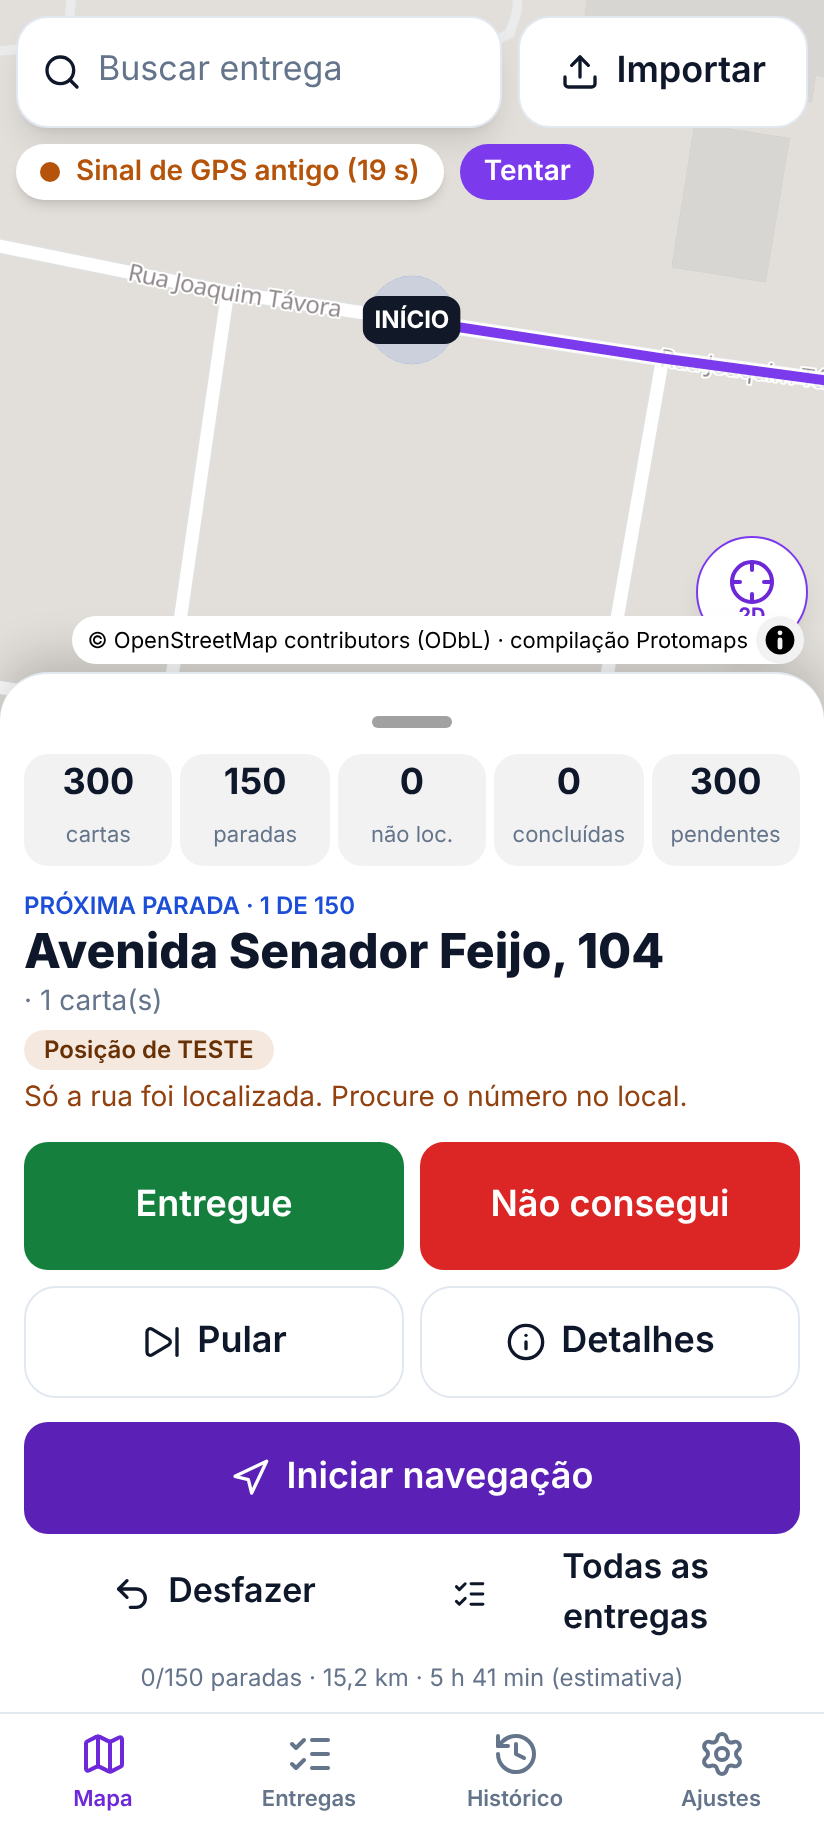
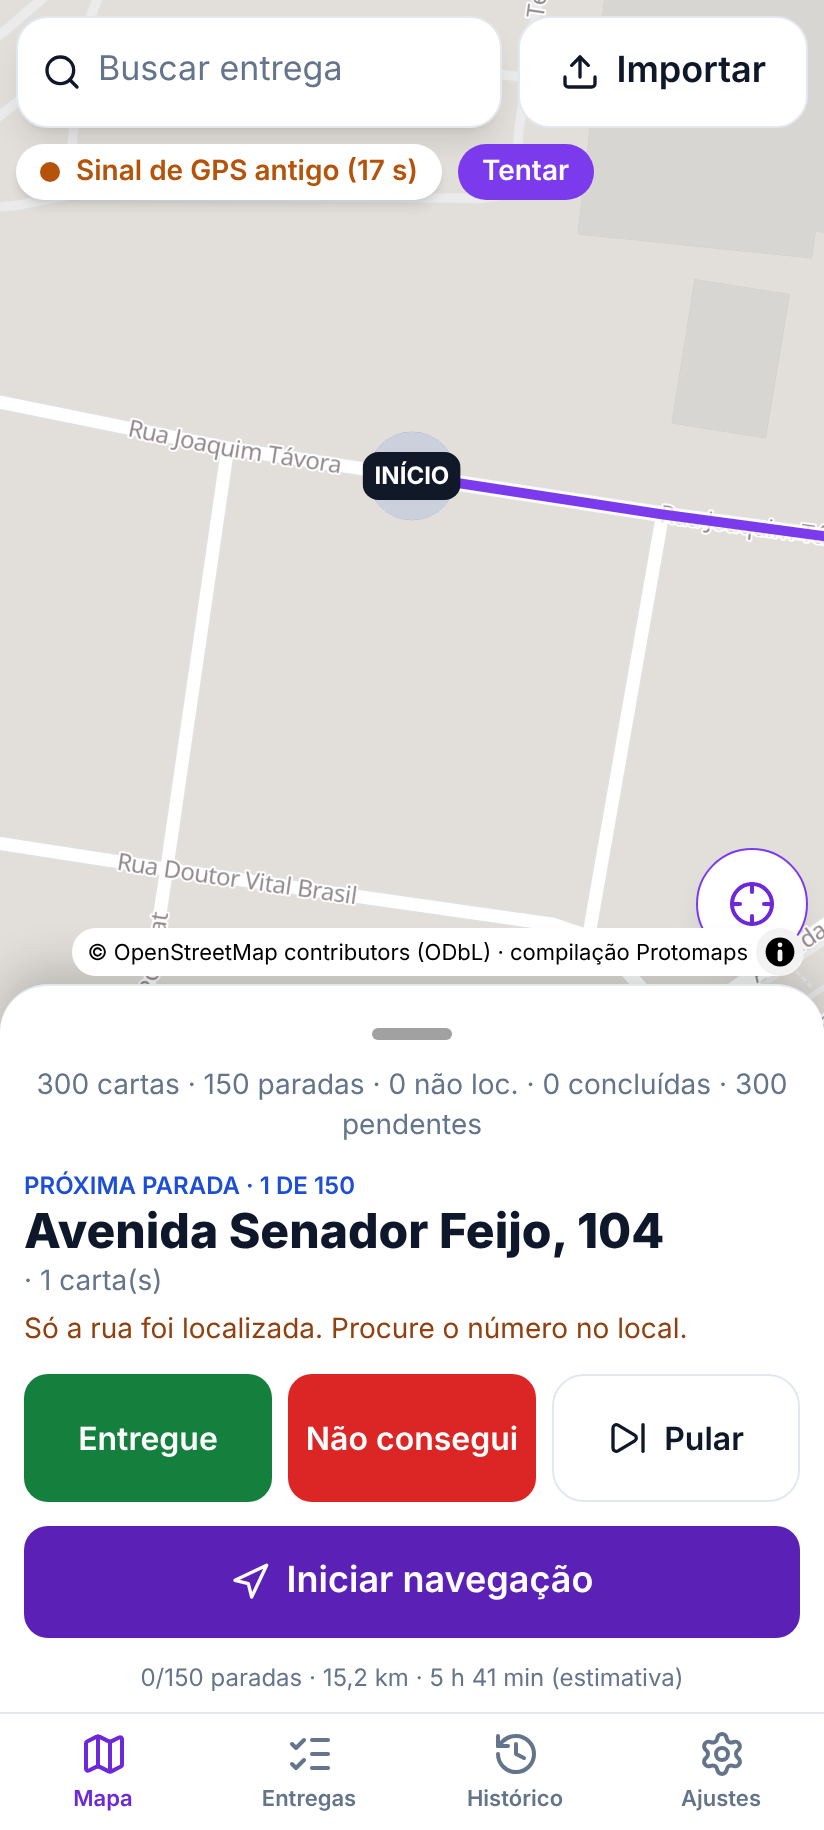
docs: auditoria 2.0.1; GPS obsoleto só no nativo

diff --git a/mobile/src/ui/useNavigation.ts b/mobile/src/ui/useNavigation.ts
@@ -189,7 +189,7 @@ export function useNavigation(onRerouted?: (r: Route) => void) {
 
   // idade do fix: marca "stale" quando para de chegar posição
   useEffect(() => {
-    const t = setInterval(() => setUi((u) => (u.fix && u.gps === "ok" && Date.now() - u.fix.time > STALE_MS ? { ...u, gps: "stale" } : u)), 2000);
+    const t = setInterval(() => setUi((u) => (nav.isNative() && u.fix && u.gps === "ok" && Date.now() - u.fix.time > STALE_MS ? { ...u, gps: "stale" } : u)), 2000);
     return () => clearInterval(t);
   }, []);
 

diff --git a/docs/AUDITORIA_ROTA_SANTOS_2_0_1.md b/docs/AUDITORIA_ROTA_SANTOS_2_0_1.md
@@ -1,0 +1,21 @@
+# Auditoria Rota Santos 2.0.1
+
+Base: APK 2.0.0 (`rota-santos-2.0.0-DEBUG.apk`, SHA-256 `453947d4…aaa75`) e as quatro capturas enviadas. Esta auditoria só registra o que foi **comprovado**; o que não pôde ser executado está marcado.
+
+## Erro meu na 2.0.0 (registrado de propósito)
+Na 2.0.0 declarei “E2E passou” sem abrir as capturas. A captura `docs/EVIDENCIAS_2_0/04-mapa-rota.png` da 2.0.0 já mostrava **a tela sem mapa** — o mesmo defeito das suas capturas. Um teste que só verifica texto e botões não detecta mapa em branco. Na 2.0.1 o teste verifica o **estado real do mapa** (`operational` só depois de `idle`, canvas > 300 px e imagem com detalhe) e eu passei a abrir as imagens.
+
+## Defeitos, causa comprovada e correção
+| # | Sintoma | Causa raiz (comprovada) | Correção | Prova |
+|---|---|---|---|---|
+| 1 | Tela principal branca, sem ruas (também sem cartas) | O contêiner do mapa tinha **altura 0**. O MapLibre acrescenta a classe `.maplibregl-map { position: relative }`, que sobrescreve o `position: absolute` das classes utilitárias; com `inset-0` sem efeito e sem altura própria, o canvas ficou com 300×150 e altura CSS 0. Medido no navegador: `{"w":412,"h":0,"canvas":true,"ch":300}` | `position:absolute; inset:0` **inline** no contêiner, wrapper que recebe a classe de tamanho, `ResizeObserver`+`map.resize()` e ao voltar do segundo plano | Mesmo medidor depois: altura 859 px, estado `operational`, captura com ruas (`docs/EVIDENCIAS_2_0/`) |
+| 2 | Falha silenciosa: fundo liso apresentado como se fosse mapa | `toFallback()` trocava para um estilo só com `background` sem avisar | Estado do mapa explícito (`init/loading/style/rendered/operational/error`), pré-checagem de WebGL, cartão “Mapa indisponível” com **Tentar novamente**; log estruturado `[rota:map]` | `RouteMap.tsx`, `data-map-state` |
+| 3 | Marcador GPS não aparece / “GPS ±12 m” sem marcador | (a) GPS só era iniciado ao tocar “Iniciar navegação”; (b) `doPlan` lia a posição **logo depois** de pedir (`locate(); getFix()`) — condição de corrida | `locate()` automático ao abrir o mapa (pede permissão uma vez), `awaitFirstFix()` espera o **evento** com tempo limite, estados `idle/needs_permission/asking/denied/disabled/searching/ok/stale/error`, marcador só com fix válido, chip de GPS, botão recentrar, seguir 2D/3D | `useNavigation.ts`, `MapHome.tsx`, E2E `GPS-01` |
+| 4 | Ponto manual de Ajustes confundido com GPS | `quickPlan` preferia o ponto confirmado em vez da posição atual e o rótulo era genérico | Origem = GPS recente; ponto manual só como plano B (e quando o GPS está fora da malha) | `service.ts` |
+| 5 | Roteamento com perfil de **bicicleta** (ride 15 km/h em ruas, “Pedalando”, “Conduzir a bicicleta”) | `edgeMode()` devolvia `ride` para qualquer via que não fosse calçada/escada | Perfil `pedestrian: true` por padrão: tudo a pé (4,5 km/h), escadas com fator próprio; rótulos e link externo (`travelmode=walking`) corrigidos; paridade com o backend mantida com `pedestrian:false` nos testes | `tests/navroute_real.test.ts` (nenhum trecho `ride`; 3,0–4,6 km/h) |
+| 6 | “106, 106” / “141, 141” | Cadastros antigos com logradouro = número (colunas deslocadas). A 2.0 já bloqueava na normalização, mas **gravava** a carta com erro e os antigos permaneciam | Linha inválida não é mais gravada (vai ao relatório com a linha original); `streetProblem()` impede que cadastro antigo vire parada; `diagnoseLegacy()` + `reprocessLegacy()` reprocessam pela **linha original** (`raw`) sem inventar logradouro nem apagar cartas | `tests/legacy.test.ts` |
+| 7 | Controles ocupavam a tela | Painel inferior ~60% da altura, botões e zoom sobre a atribuição | Painel **compacto por padrão** (resumo, parada, 3 botões, iniciar), expansível; atribuição e botões sobem com a altura real do painel; zoom +/- removido (gesto de pinça) | capturas `04c-painel-compacto.png` |
+| 8 | Duplicatas (“211 → 28 + 183”) | Ver `AUDITORIA_ROTA_SANTOS_2_0.md` (coluna de ID tratada como chave) | Já corrigido na 2.0; mantido | `import_inference.test.ts` |
+
+## Itens NÃO comprovados em Android
+Veja `TESTES_VISUAIS_ANDROID.md`. As correções acima foram verificadas no **Chromium (navegador)** e por testes unitários; **não** há ainda captura da 2.0.1 renderizada na WebView do Android, exceto o que estiver listado como PASS nesse documento.
